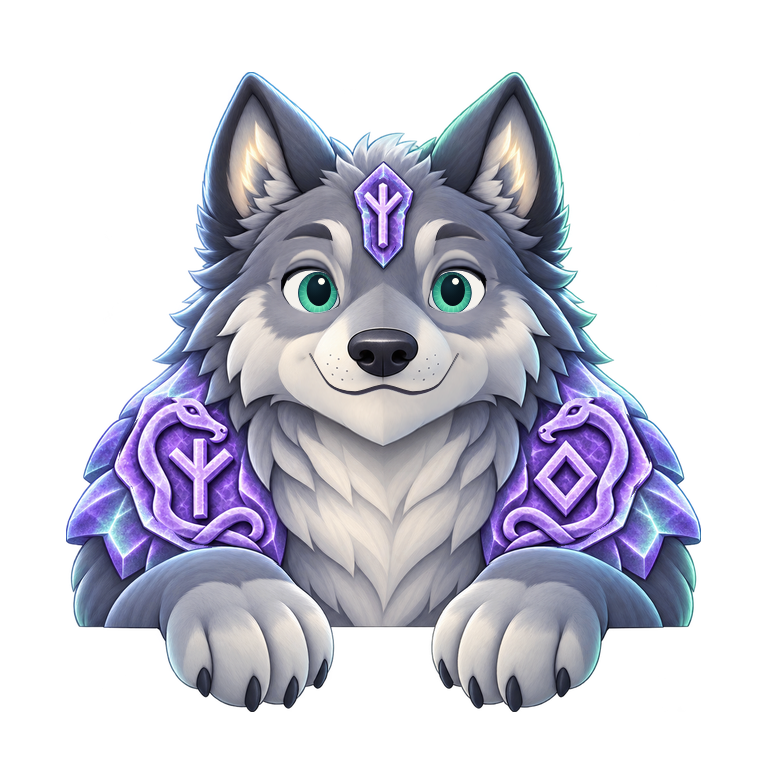
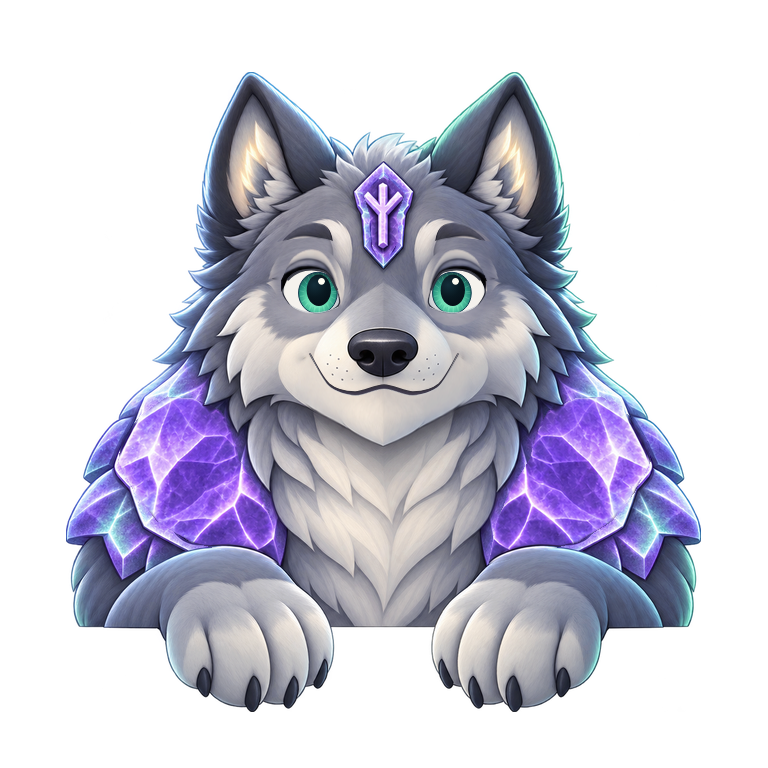
feat(art): Fenris wears plain shoulder plates and Kitsune's tails are warm glowstone
The owner's two picks. Fenris's ten frames and portrait lose the shoulder engravings and
keep the faceted amethyst; Kitsune's ten frames, portrait and paws layer take ember-to-amber
glowstone tails. Outside the shoulders and the tails no pixel and no alpha changes, and both
contact files are unchanged. The portrait is also the profile emblem and the Daily card's
medallion, which the import builds from it.

The guardian page tests capture every realm's result, and the board realm test the HUD,
where captures are asked for.

Changed region(s): [[0.1562, 0.5, 0.375, 0.7188], [0.625, 0.5, 0.8438, 0.7188]]

diff --git a/unity/Assets/ZKube/Tests/PlayMode/Presentation/BoardRealmTests.cs b/unity/Assets/ZKube/Tests/PlayMode/Presentation/BoardRealmTests.cs
@@ -138,7 +138,28 @@ namespace ZKube.Presentation.Tests
                 Assert.AreSame(expected, music.clip); Assert.IsTrue(music.mute); Assert.IsFalse(music.isPlaying);
                 Assert.AreEqual(board.State.BonusCharges.ToString(), board.View.GetComponentsInChildren<TMP_Text>().Single(value => value.name == "Guardian action label").text);
                 Assert.AreEqual(0, board.State.BonusCharges, "Realm art does not grant charges");
+                yield return HudEvidence(theme.realmId);
             }
+        }
+        // Evidence, where captures are asked for: this realm's guardian on the board's HUD, drawn for the Seeker.
+        private IEnumerator HudEvidence(byte realm)
+        {
+            if (string.IsNullOrEmpty(Environment.GetEnvironmentVariable("ZKUBE_CAPTURES"))) yield break;
+            var art = ZKube.Tests.Presentation.BoardTestState.Art(board);
+            var screen = ZKube.Tests.Presentation.Phones.SeekerScreen;
+            var safe = new Rect(0, 0, screen.width, screen.height - ZKube.Tests.Presentation.Phones.SeekerTopInsetDp);
+            var ui = new SkinUi(art, 1, 1);
+            board.View.gameObject.SetActive(false);
+            var child = new GameObject("Hud evidence"); child.transform.SetParent(root.transform);
+            try
+            {
+                var view = child.AddComponent<BoardView>(); view.Create(board, art, HudLayout.Build(ui, board.State, board.Session, safe, 1, screen), ui);
+                view.SetBoard(board.State.Grid); view.SetPreview(board.State.HasNextRow, board.State.NextRow);
+                view.Summary(board.State, board.Session, true);
+                yield return null; yield return null;
+                yield return ZKube.Tests.Presentation.Captures.Snap(screen, "hud seeker realm " + realm.ToString("00"));
+            }
+            finally { UnityEngine.Object.Destroy(child); board.View.gameObject.SetActive(true); }
         }
         // Guardian continuity: every frame of every guardian renders in the same
         // box as idle, because it is idle. The body is always the idle frame; a

diff --git a/unity/Assets/ZKube/Tests/PlayMode/Presentation/WireframeGeometryTests.cs b/unity/Assets/ZKube/Tests/PlayMode/Presentation/WireframeGeometryTests.cs
@@ -660,7 +660,7 @@ namespace ZKube.Tests.Presentation
                             Assert.That(high.y, Is.LessThanOrEqualTo(pawsEnd + .5f), at + ": the paws reach " + pawsEnd + " and cover \"" + text.text + "\", whose top is at " + high.y);
                         }
                         Assert.That(words, Is.GreaterThan(0), at + ": the card says something");
-                        if (realm == 5 || realm == 10) yield return Captures.Snap(shell, "paws " + size + " realm " + realm.ToString("00") + " " + name);
+                        yield return Captures.Snap(shell, "paws " + size + " realm " + realm.ToString("00") + " " + name);
                     }
                 }
             Phones.Clear(shell);
